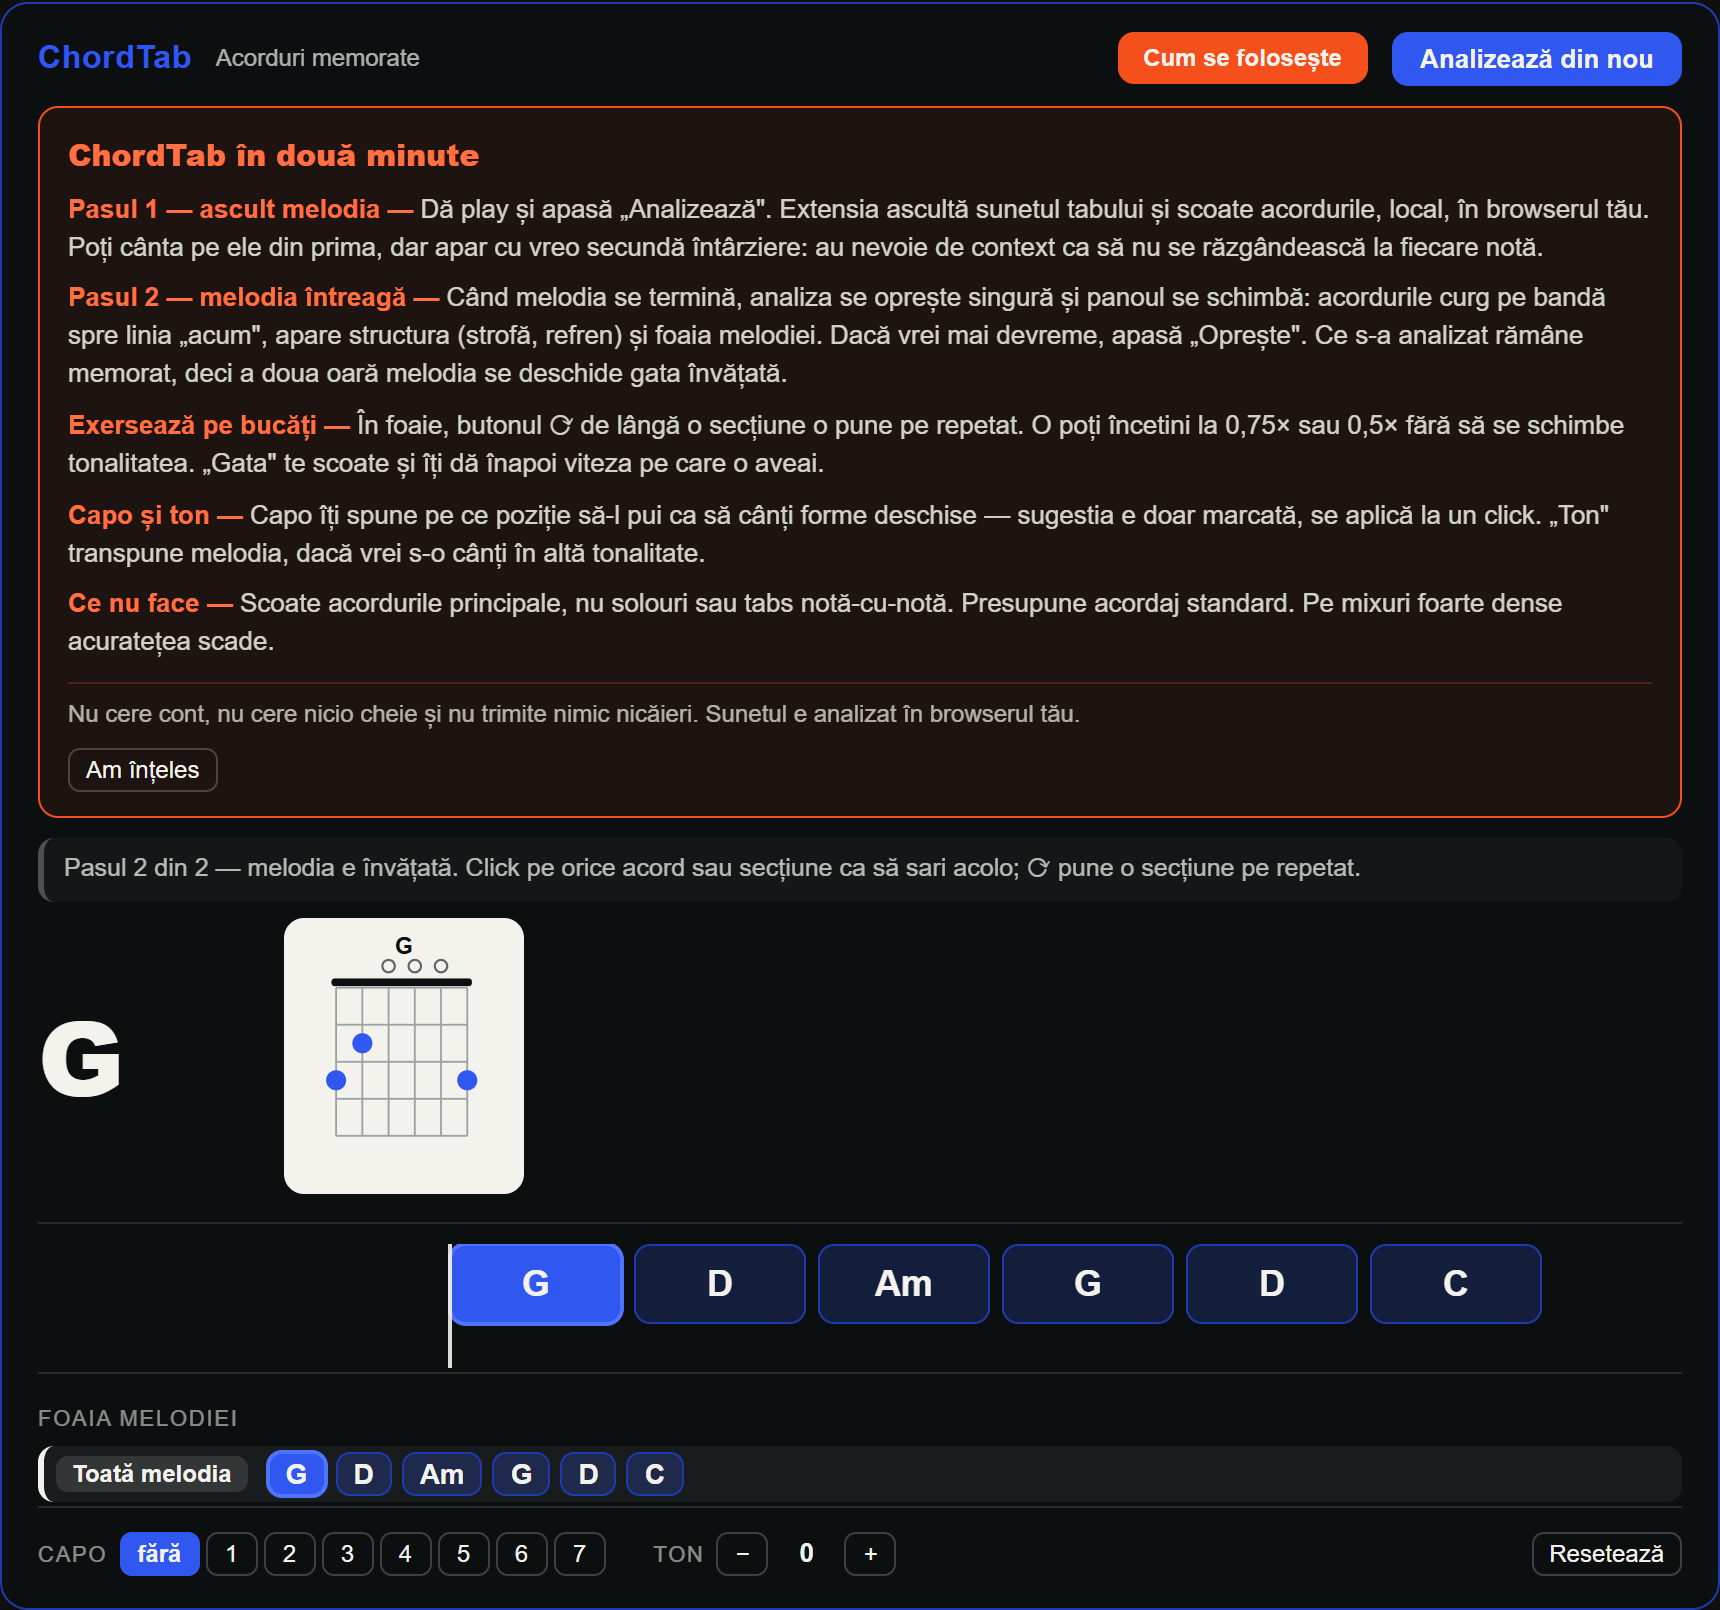
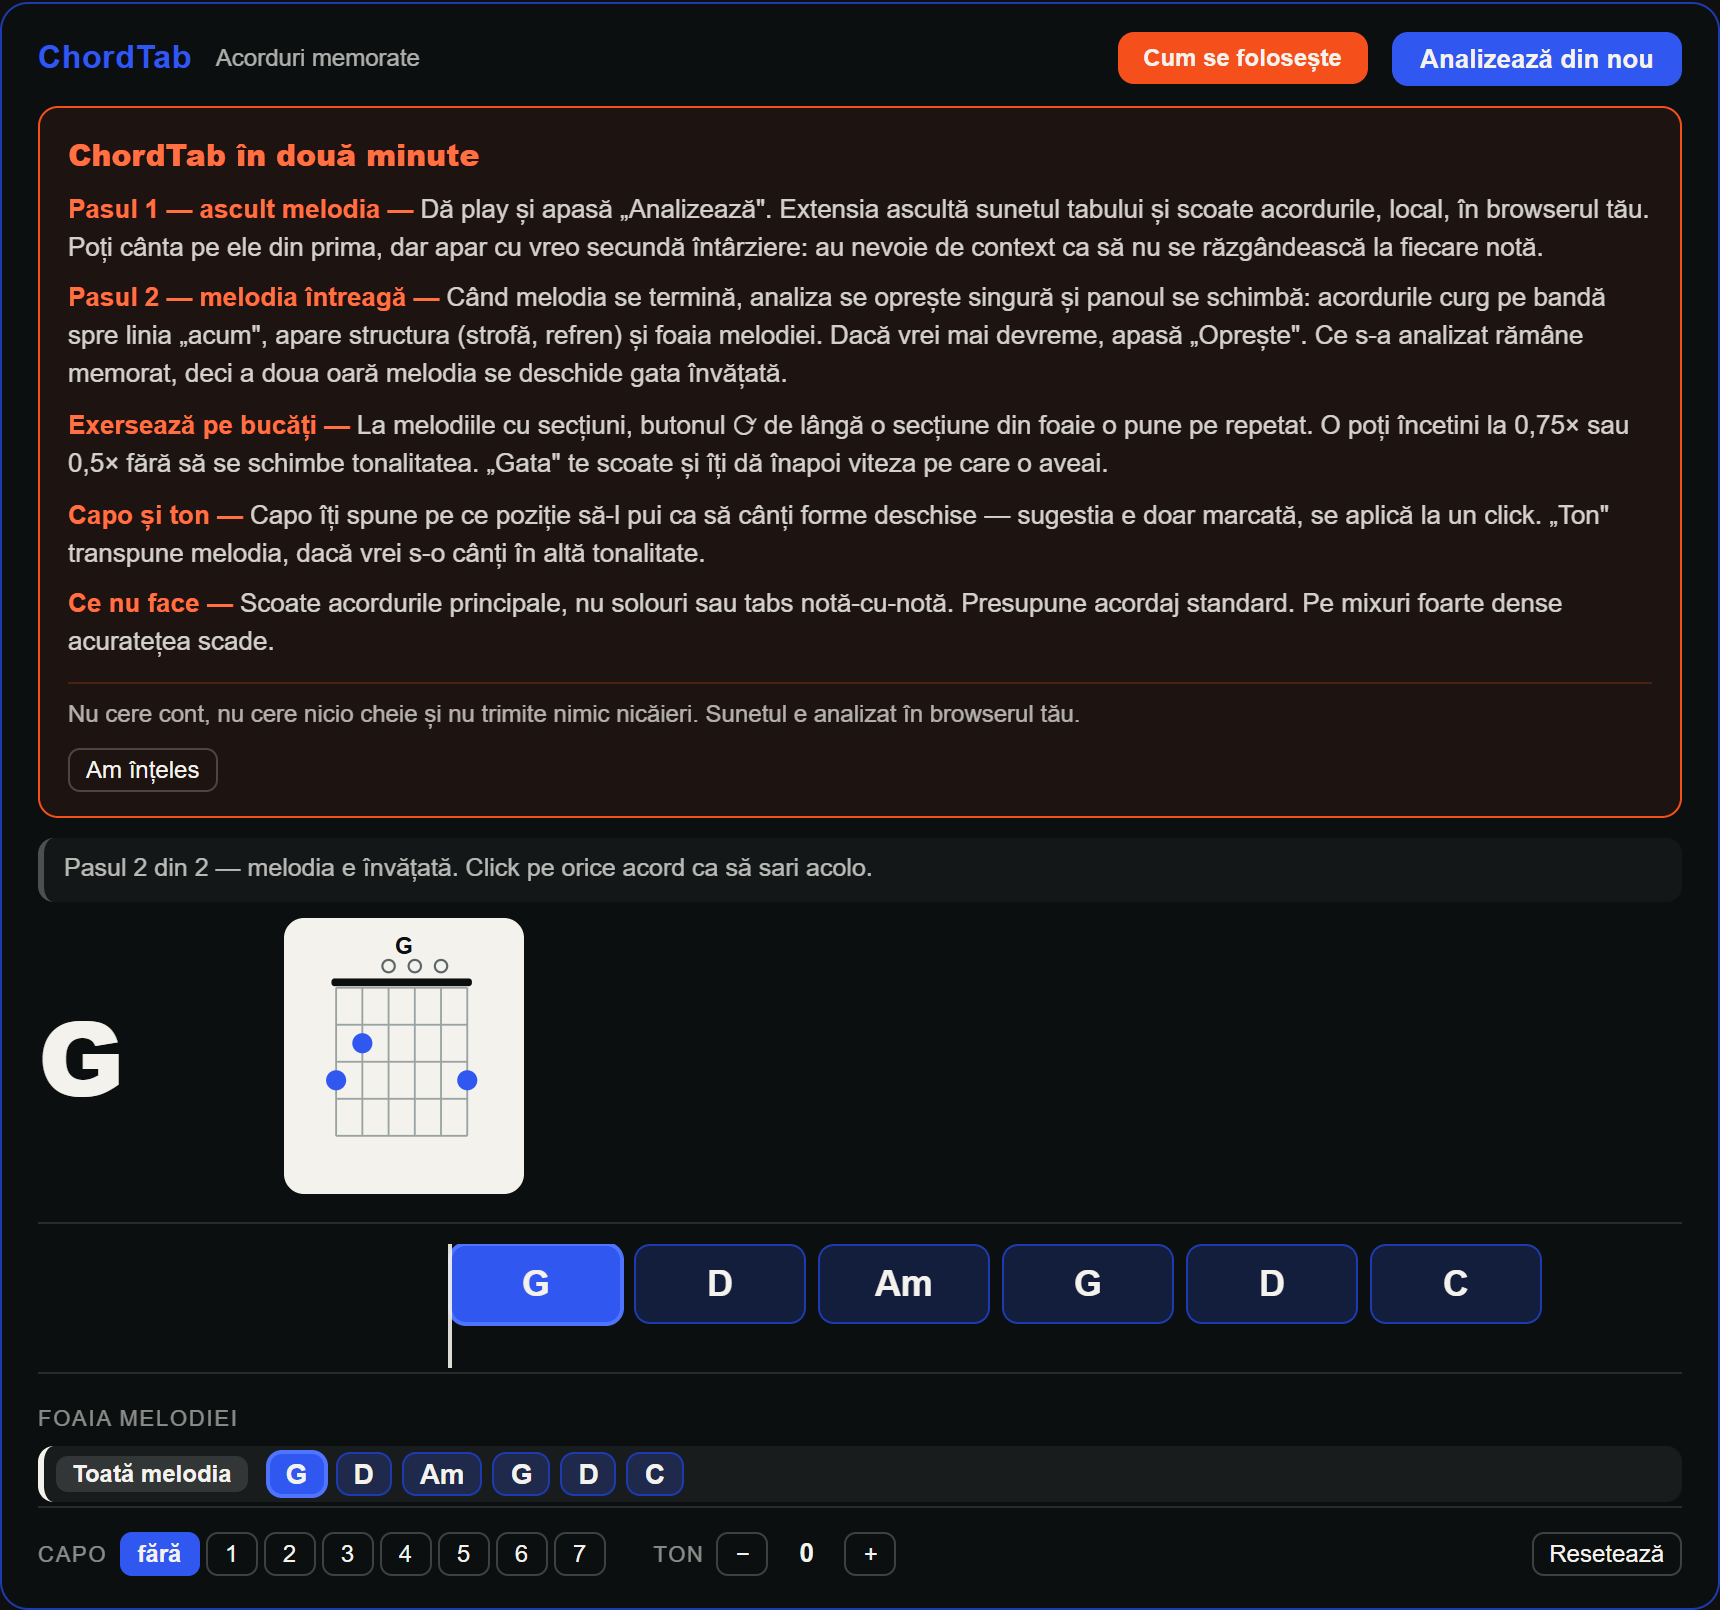
Pasii 8-9: marunțisurile auditului 2 + ambalare v0.5.1
Pasul 8 (7 marunte confirmate):
- README "Instalare" preda fluxul VECHI ("apasa iconita din nou cand ai terminat"),
  contrazis de propria introducere - si foarte probabil sursa nedumeririi lui Andrei cu
  reload-ul: dupa oprirea automata, un click pe iconita chiar PORNEA o analiza noua peste
  melodia invatata. Rescris pe fluxul real.
- linia Pasului 2 promitea butonul ⟳ si pe melodiile fara sectiuni (unde nu exista):
  stepPlaybackFlat, ales dupa hasUsefulStructure(); ghidul spune acum "la melodiile cu
  sectiuni"
- "24 acorduri" -> "24 DE acorduri" (de la 20 in sus numeralul cere "de"); helper countOf
- descrierea din manifest avea 187 de caractere, limita Chrome Web Store e 132: scurtata
  la 121 SI verificata acum in package.test.mjs, ca sa nu se descopere abia la publicare
- diagrama previzualizata la hover nu mai e furata de schimbarea acordului curent
  (ui.hoverChip; hover-ul nu se re-declanseaza daca mouse-ul sta pe loc)
- sheetChipIndexAt nu mai interogheaza DOM-ul la fiecare cadru pe foaia plata: momentele
  chip-urilor se memoreaza la constructie (ui.sheetTimes)
- numarul de verificari din VERIFICARE.md: real (50), cu nota cum se numara

Pasul 9: versiune 0.5.1, README + VERIFICARE rescrise (inclusiv cele 4 probe manuale noi:
pagina care nu mai fuge, reclama, exersare pe alt tab, Loop), capturi regenerate.
npm test verde (50 verificari UI + algoritmi); test:package verde, arhiva 23 fisiere/62KB.

Changed region(s): [[0.0308, 0.2484, 0.9552, 0.3106], [0.4006, 0.528, 0.8012, 0.559]]

diff --git a/extension/content/content.js b/extension/content/content.js
@@ -405,7 +405,9 @@ function setCurrent(sounding) {
   const label = displayLabel(sounding);
   ui.current.textContent = label;
   ui.current.dataset.chord = label;
-  showDiagram(label);
+  // Cât stă cursorul pe un acord, acordul curent nu-i fură diagrama.
+  const hovered = ui.hoverChip?.isConnected ? ui.hoverChip.dataset.chord : null;
+  showDiagram(hovered || label);
 }
 
 function fillChordList(soundingLabels) {
@@ -499,7 +501,9 @@ function renderStep() {
   if (!ui.step) return;
   ui.step.textContent =
     state.mode === 'listening' ? STR.stepListening(state.chords.length) :
-    state.mode === 'playback' ? STR.stepPlayback : STR.stepIdle;
+    state.mode === 'playback'
+      ? (hasUsefulStructure() ? STR.stepPlayback : STR.stepPlaybackFlat)
+      : STR.stepIdle;
   ui.step.dataset.mode = state.mode;
 }
 
@@ -930,12 +934,18 @@ function buildSheet() {
   // Foaie nouă = derulare nouă. Se resetează DOAR aici, nu la fiecare render: altfel
   // „rândul s-a schimbat” ar fi adevărat mereu și foaia s-ar re-derula la fiecare acord.
   ui.sheetRowLast = null;
+  ui.sheetTimes = new Map(); // index de rând -> momentele chip-urilor lui (fără tipar)
 
   if (!st) {
     // Fără structură: un singur rând cu toată melodia, tot clickabil.
-    const chips = chordsBetween(0, Infinity).map((c) => makeSheetChip(c.label, c.t));
+    const items = chordsBetween(0, Infinity);
+    ui.sheetTimes.set(0, items.map((c) => c.t));
     ui.sheet.appendChild(sheetRow({
-      tag: { text: STR.wholeSong, start: 0 }, group: null, chips, reps: 1, index: 0,
+      tag: { text: STR.wholeSong, start: 0 },
+      group: null,
+      chips: items.map((c) => makeSheetChip(c.label, c.t)),
+      reps: 1,
+      index: 0,
     }));
     return;
   }
@@ -957,7 +967,9 @@ function buildSheet() {
       });
     } else {
       // Zonă liberă (punte, intro, final): nu există tipar, deci arătăm ce sună de fapt.
-      chips = chordsBetween(s.start, s.end).map((c) => makeSheetChip(c.label, Math.max(c.t, s.start)));
+      const items = chordsBetween(s.start, s.end);
+      ui.sheetTimes.set(i, items.map((c) => Math.max(c.t, s.start)));
+      chips = items.map((c) => makeSheetChip(c.label, Math.max(c.t, s.start)));
     }
     ui.sheet.appendChild(sheetRow({
       tag: { text: sectionLabel(s), start: s.start },
@@ -987,13 +999,14 @@ function sheetChipIndexAt(section, t) {
     }
     return loop.length - 1;
   }
-  // Rând liber sau foaie plată: ultimul chip al cărui moment a trecut.
-  const chips = ui.sheet?.querySelector(`.ct-sheet-row${section ? `[data-index="${sectionIndexOf(section)}"]` : ''}`)
-    ?.querySelectorAll('.ct-sheet-chip');
-  if (!chips || !chips.length) return -1;
+  // Rând liber sau foaie plată: ultimul chip al cărui moment a trecut. Momentele sunt
+  // memorate la construcția foii — interogarea DOM se făcea la FIECARE cadru, înainte de
+  // cheia care trebuia s-o evite, contrar invariantei promise în bucla de redare.
+  const times = ui.sheetTimes?.get(section ? sectionIndexOf(section) : 0);
+  if (!times || !times.length) return -1;
   let idx = -1;
-  for (let i = 0; i < chips.length; i++) {
-    if (Number(chips[i].dataset.t) <= t) idx = i; else break;
+  for (let i = 0; i < times.length; i++) {
+    if (times[i] <= t) idx = i; else break;
   }
   return idx;
 }
@@ -1107,10 +1120,17 @@ function showDiagram(label) {
 
 // mouseenter/mouseleave nu se propagă și nu se declanșează la mișcarea în interiorul
 // aceluiași element — spre deosebire de mouseover/mouseout, care se aprindeau în lanț.
+// Ținem minte pe ce chip stă cursorul: altfel, la prima schimbare de acord, setCurrent
+// suprascria diagrama previzualizată — fix în secundele în care omul se uita la ea ca să-și
+// pregătească următoarea schimbare. Hover-ul nu se re-declanșează dacă mouse-ul stă pe loc.
 function attachChipHover(chip) {
-  chip.addEventListener('mouseenter', () => showDiagram(chip.dataset.chord));
-  chip.addEventListener('focus', () => showDiagram(chip.dataset.chord));
-  const back = () => showDiagram(ui.current?.dataset.chord);
+  const show = () => { ui.hoverChip = chip; showDiagram(chip.dataset.chord); };
+  chip.addEventListener('mouseenter', show);
+  chip.addEventListener('focus', show);
+  const back = () => {
+    if (ui.hoverChip === chip) ui.hoverChip = null;
+    showDiagram(ui.current?.dataset.chord);
+  };
   chip.addEventListener('mouseleave', back);
   chip.addEventListener('blur', back);
 }

diff --git a/extension/lib/strings.js b/extension/lib/strings.js
@@ -23,7 +23,8 @@ export const STR = {
       + 'Dacă vrei mai devreme, apasă „Oprește". Ce s-a analizat rămâne memorat, deci a doua '
       + 'oară melodia se deschide gata învățată.'],
     ['Exersează pe bucăți',
-      'În foaie, butonul ⟳ de lângă o secțiune o pune pe repetat. O poți încetini la 0,75× '
+      'La melodiile cu secțiuni, butonul ⟳ de lângă o secțiune din foaie o pune pe repetat. '
+      + 'O poți încetini la 0,75× '
       + 'sau 0,5× fără să se schimbe tonalitatea. „Gata" te scoate și îți dă înapoi viteza '
       + 'pe care o aveai.'],
     ['Capo și ton',
@@ -39,11 +40,15 @@ export const STR = {
 
   stepIdle: 'Pasul 1 din 2 — apasă „Analizează" și lasă melodia să curgă până la capăt: '
     + 'învăț acordurile ascultând.',
-  stepListening: (n) => `Pasul 1 din 2 — învăț melodia${n > 1 ? ` (${n} acorduri până acum)` : ''}. `
+  // „12 acorduri”, dar „24 DE acorduri”: de la 20 în sus numeralul cere „de”.
+  countOf: (n, word) => `${n}${n % 100 >= 1 && n % 100 <= 19 ? '' : ' de'} ${word}`,
+  stepListening: (n) => `Pasul 1 din 2 — învăț melodia${n > 1 ? ` (${STR.countOf(n, 'acorduri')} până acum)` : ''}. `
     + 'Poți cânta pe acordurile de mai jos. Când melodia se termină, trec singură la Pasul 2: '
     + 'banda, secțiunile și exersarea.',
   stepPlayback: 'Pasul 2 din 2 — melodia e învățată. Click pe orice acord sau secțiune ca să '
     + 'sari acolo; ⟳ pune o secțiune pe repetat.',
+  // Melodiile fără structură clară n-au secțiuni, deci n-au nici butonul ⟳ — nu-l promitem.
+  stepPlaybackFlat: 'Pasul 2 din 2 — melodia e învățată. Click pe orice acord ca să sari acolo.',
 
   // stări
   idle: 'Apasă „Analizează" ca să scot acordurile',

diff --git a/docs/VERIFICARE.md b/docs/VERIFICARE.md
@@ -1,6 +1,52 @@
-# Verificare în Chrome — **v0.5.0: extensia își explică singură ce face**
+# Verificare în Chrome — **v0.5.1: reparațiile auditului 2**
 
 Document viu: descrie mereu ce e de verificat ACUM.
+
+---
+
+## Ce s-a reparat în v0.5.1
+
+Auditul adversarial pe toată extensia (3 auditori + 4 sceptici puși să-i infirme) a găsit
+**14 defecte reale, niciunul infirmat**. Toate în codul nou din ultimele trei versiuni.
+Cele pe care le-ai fi simțit:
+
+**Pagina YouTube nu-ți mai fuge de sub ochi.** Ăsta era cel critic: dacă derulai la comentarii
+cu melodia pornită, foaia trăgea pagina înapoi la panou la fiecare schimbare de acord. Cauza
+e o subtilitate a browserului — funcția pe care o folosisem ca să derulez *foaia* derulează
+de fapt tot ce se poate derula, inclusiv pagina. Acum se derulează doar foaia, și numai când
+se schimbă rândul (altfel fugea de sub cursor când o derulai singur).
+
+**Reclamele nu mai încheie analiza.** Reclamele rulează în același element video ca melodia,
+deci la capătul lor se emitea același semnal de „s-a terminat". Pre-roll: analiza se
+„termina" cu zero acorduri și butonul părea mort. Mid-roll: jumătate de melodie, prezentată
+drept învățată.
+
+**Melodia pusă pe repetare (click-dreapta → Loop) nu mai pierde tot.** Cu bucla pornită,
+browserul nu anunță niciodată sfârșitul melodiei — sare la început în tăcere. Panoul rămânea
+veșnic în Pasul 1, iar la reluare acordurile primei treceri se ștergeau și memoria bună era
+suprascrisă cu o jumătate de melodie.
+
+**Exersarea nu mai moare când treci pe alt tab** (browserul oprește animațiile în taburile
+ascunse, iar bucla trăia numai acolo). **„Analizează" pe alt tab nu mai omoară degeaba o
+analiză în curs.** **Memoria unei melodii nu mai aterizează pe alta** la navigări rapide.
+**Foaia nu mai e decalată** la melodiile a căror progresie pleacă și revine pe același acord
+(un blues E-A-E-B-A-E aprindea acordul greșit și clickul sărea aiurea).
+
+Plus mărunțișuri: README-ul preda în „Instalare" fluxul vechi („apasă iconița din nou"),
+contrazis de propria lui introducere — **foarte probabil de aici venea nedumerirea ta cu
+reload-ul**; linia Pasului 2 promitea butonul ⟳ și pe melodiile care n-au secțiuni; „24
+acorduri" fără „de"; descrierea din manifest depășea limita magazinului Chrome.
+
+### Ce te rog să verifici la astea
+
+1. **Proba critică:** melodie deja analizată, dă play, **derulează jos la comentarii**.
+   Pagina trebuie să stea pe loc, oricât de mult se schimbă acordurile.
+2. **Cu reclamă:** pornește analiza pe o melodie cu reclamă la început — după reclamă,
+   analiza trebuie să continue, nu să se „încheie".
+3. **Exersare pe alt tab:** pune un refren pe repetat, treci pe alt tab, ascultă — trebuie
+   să se audă repetând la nesfârșit.
+4. **Cu Loop pornit** (click-dreapta pe player → repetare): la reluare, panoul trece în
+   Pasul 2 cu acordurile primei treceri intacte.
 
 ---
 
@@ -111,7 +157,8 @@ nu reapară.
 
 ## Starea proiectului
 
-`npm test` = 46 de verificări doar în interfață, plus testele de algoritm.
+`npm test` = 50 de verificări doar în interfață, plus testele de algoritm. (Cifra se
+actualizează la fiecare versiune — se numără cu `await check(` în `tests/ui.test.mjs`.)
 `npm run test:package` verifică arhiva, inclusiv separatoarele din zip.
 
 ## Ce a rămas dinadins nereparat

diff --git a/README.md b/README.md
@@ -4,9 +4,10 @@ Extensie Chrome care ascultă melodia din tabul de YouTube **local, în browseru
 (zero servere, zero chei API, zero costuri) și îți arată acordurile venind pe o bandă
 sincronizată cu melodia — cu diagrame pe corzi, exersare pe secțiuni, capo și transpoziție.
 
-**Stare:** v0.5.0 — banda rulantă, modul de exersare și ghidul din panou
-([plan](docs/PLAN-banda-si-exersare.md)), peste structura melodiei și reparațiile
-[auditului adversarial](docs/PLAN-reparatii-audit.md).
+**Stare:** v0.5.1 — banda rulantă, modul de exersare și ghidul din panou
+([plan](docs/PLAN-banda-si-exersare.md)), plus reparațiile
+[auditului 2](docs/PLAN-reparatii-audit-2.md) și ale
+[auditului 1](docs/PLAN-reparatii-audit.md).
 Planul complet: [docs/PLAN-guitar-chords-extension.md](docs/PLAN-guitar-chords-extension.md) ·
 Ce e de verificat: [docs/VERIFICARE.md](docs/VERIFICARE.md)
 
@@ -51,9 +52,10 @@ se schimbe tonalitatea**. Îl cânți până iese, apoi „Gata" te readuce la v
 3. Apasă **Load unpacked** și alege folderul dezarhivat.
 4. Prinde iconița în bară (click pe puzzle → pin), ca s-o ai la îndemână.
 
-**Cum se folosește:** deschide o melodie pe YouTube, dă play, apasă iconița. Extensia ascultă
-și afișează acordurile sub video. Când ai terminat, apasă din nou — acordurile rămân memorate,
-iar a doua oară apar instant, sincronizate exact.
+**Cum se folosește:** deschide o melodie pe YouTube, dă play și apasă **„Analizează"** în
+panoul de sub video (sau iconița din bară). Extensia ascultă și afișează acordurile. **Când
+melodia se termină, analiza se oprește singură** și apar banda rulantă, structura și
+exersarea. Acordurile rămân memorate: a doua oară melodia se deschide gata învățată.
 
 Nu-ți cere cont, nu-ți cere nicio cheie și nu trimite nimic nicăieri. Sunetul e analizat local.
 

diff --git a/docs/PLAN-reparatii-audit-2.md b/docs/PLAN-reparatii-audit-2.md
@@ -6,6 +6,24 @@ total). **16 constatări brute, 0 infirmate, 2 retrogradate; după contopirea du
 14 defecte reale — 1 critic, 2 mari, 5 medii, 6 mici.** Toate verdictele au dovadă
 fișier:linie verificată de un sceptic independent.
 
+## STARE: toți cei 9 pași executați (Opus, 2026-08-25) — v0.5.1 livrată
+
+Toate porțile trecute, 50 de verificări UI verzi + algoritmii + arhiva. Cele trei reparații
+grele au fost verificate ȘI negativ (testul nou pus pe codul vechi trebuie să PICE):
+- foaia care derula pagina: cu `scrollIntoView` la loc, pagina sare de la 2000px la 601px ✓
+- bucla contopită circular: cu `lead` forțat la 0, testul pică pe „lead 0, aștept ~2" ✓
+
+Abateri de la plan, conștiente:
+- **Pasul 5** (cursa pe două taburi) nu a primit test automat: cere două taburi reale cu
+  invocări diferite de extensie, ceea ce Playwright nu poate simula cinstit. Reparația e
+  minimă și evidentă la citire (cerem permisiunea înainte să oprim captura veche); rămâne
+  probă manuală. Am respectat regula: n-am forțat un test fragil.
+- **Pasul 4**: proba adevărată (tab ascuns) nu se poate automatiza — testul acoperă calea
+  care rămâne vie acolo (`timeupdate` emis fără niciun tick rAF util), iar proba manuală e
+  scrisă în VERIFICARE.md.
+
+---
+
 Executat de Opus, pas cu pas; fiecare pas se încheie cu `npm test` verde și un commit.
 La blocaj: regula celor două încercări → `docs/BUG-<slug>.md` → escaladare pe Fable.
 Liniile de cod citate mai jos sunt orientative (fișierele se mai mișcă); citatele de cod
